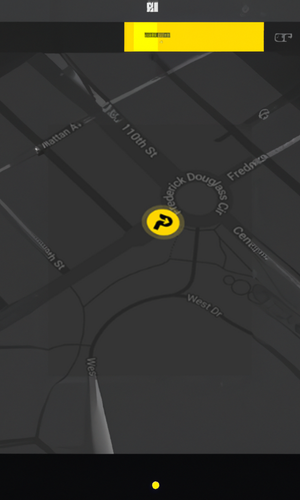
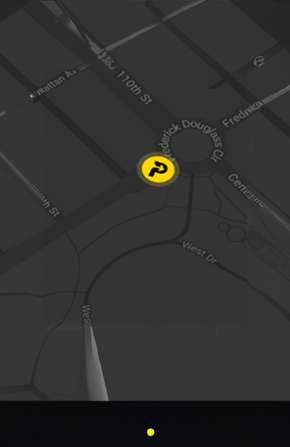
just added stuff to the dummy map

diff --git a/app/screens/map.tsx b/app/screens/map.tsx
@@ -1,0 +1,93 @@
+import CustomButton from '@/components/CustomButton';
+import NavigationArrow from '@/components/NavigationArrow';
+import { icons, images } from '@/constants';
+import React from 'react';
+import { Image, StyleSheet, Text, View } from 'react-native';
+import { SafeAreaView } from 'react-native-safe-area-context';
+import { Path,Svg } from 'react-native-svg';
+
+const Map = () => {
+    const locationDeatils = {
+        name:"NIE-Admin Block",
+        location:"Manandvadi road, NIE",
+        list_details:{
+            distance:2100,spots_left:2,no_of_slots:20
+        }
+    }
+    return (
+        <View className="relative h-full bg-black">
+            <Image className="relative z-0 h-full w-full" source={images.map_parkease} />
+                {/*Top bar - list fo the parking lots */}
+            <View className="absolute w-screen mt-12">
+                <View className="flex items-center mx-4">
+                    <View className="rounded-2xl w-full bg-black flex flex-row justify-between p-4">
+                        <View className="bg-primary-700 rounded-full flex flex-row justify-between">
+                            <View className="h-9 w-9 flex justify-center items-center bg-primary-300 rounded-full">
+                               <Text className="text-xl text-black">6</Text>
+                            </View>
+                            <View className="px-2 flex justify-center">
+                                <Text className="text-base text-white">Free parking lots nearby</Text>
+                            </View>
+                        </View>
+                        <View 
+                        className="flex flex-row justify-around bg-primary-500 px-2 items-center rounded-full"
+                        
+                        >
+                        <Svg width={20} height={20} fill="none" viewBox="0 0 24 24" strokeWidth={1.5} stroke="white">
+                            <Path
+                            strokeLinecap="round"
+                            strokeLinejoin="round"
+                            d="M3.75 12h16.5m-16.5 3.75h16.5M3.75 19.5h16.5M5.625 4.5h12.75a1.875 1.875 0 0 1 0 3.75H5.625a1.875 1.875 0 0 1 0-3.75Z"
+                            />
+                        </Svg>
+                            <Text className="text-base text-white px-2">List</Text>
+                        </View>
+                    </View>
+                </View>
+                {/* search icon */}
+                <View className="flex relative">
+                    <View className="absolute right-5 top-5 z-20 flex gap-4">
+                        <View className="bg-[#bdc2c9] p-3 rounded-full">
+                            <Svg height={24} width={24} fill="none" viewBox="0 0 24 24" strokeWidth={1.5} stroke="black">
+                                <Path
+                                strokeLinecap="round"
+                                strokeLinejoin="round"
+                                d="M21 21l-5.197-5.197m0 0A7.5 7.5 0 1 0 5.196 5.196a7.5 7.5 0 0 0 10.607 10.607Z"
+                                />
+                            </Svg>
+                        </View>
+                        <View className="bg-[#bdc2c9] p-3 rounded-full">
+                            <Svg height={24} width={24} xmlns="http://www.w3.org/2000/svg" fill="none" viewBox="0 0 24 24" strokeWidth={1.5} stroke="black">
+                                <Path strokeLinecap="round" strokeLinejoin="round" d="M10.5 6h9.75M10.5 6a1.5 1.5 0 1 1-3 0m3 0a1.5 1.5 0 1 0-3 0M3.75 6H7.5m3 12h9.75m-9.75 0a1.5 1.5 0 0 1-3 0m3 0a1.5 1.5 0 0 0-3 0m-3.75 0H7.5m9-6h3.75m-3.75 0a1.5 1.5 0 0 1-3 0m3 0a1.5 1.5 0 0 0-3 0m-9.75 0h9.75" />
+                            </Svg>
+                        </View>
+                    </View>
+                </View>
+            </View>
+            <View className="absolute bottom-0 w-screen">
+                <View className="bg-primary-300 rounded-t-2xl">
+                    <Text className="">
+                        {locationDeatils.name}
+                    </Text>
+                    <Text>
+                        {locationDeatils.location}
+                    </Text>
+                    <View>
+                        {/* {locationDeatils.list_details.map((x)=>{
+
+                        })} */}
+                    </View>
+                    <View className="mx-5 mb-8">
+                        <CustomButton 
+                        bgVariant="dark"
+                        title="Navigate"
+                        IconLeft={() => <NavigationArrow/>}
+                        />
+                    </View>
+                </View>
+            </View>
+        </View>
+    );
+}
+
+export default Map;

diff --git a/constants/index.tsx b/constants/index.tsx
@@ -23,6 +23,8 @@ import selectedMarker from "@/assets/icons/selected-marker.png";
 import star from "@/assets/icons/star.png";
 import target from "@/assets/icons/target.png";
 import to from "@/assets/icons/to.png";
+import navigation_arrow from "@/assets/icons/navigation_arrow.png"
+
 import check from "@/assets/images/check.png";
 import getStarted from "@/assets/images/get-started.png";
 import message from "@/assets/images/message.png";
@@ -35,7 +37,7 @@ import parkingP from "@/assets/images/parkingP.png";
 import parking_layout from "@/assets/images/parking-layout.png";
 import parking_layout1 from "@/assets/images/parking-layout.jpg";
 import parkingkaP from "@/assets/images/parking-p.png";
-import map_parkease from "@/assets/images/map-parkease"
+import map_parkease from "@/assets/images/map-parkease.png"
 
 export const images = {
   onboarding1,
@@ -50,7 +52,7 @@ export const images = {
   parking_layout,
   parking_layout1,
   parkingkaP,
-  map_parkease
+  map_parkease,
 };
 
 export const icons = {
@@ -69,6 +71,7 @@ export const icons = {
   lock,
   map,
   marker,
+  navigation_arrow,
   out,
   person,
   pin,

diff --git a/components/CustomButton.tsx b/components/CustomButton.tsx
@@ -19,6 +19,9 @@ const getBgVariantStyle = (variant: ButtonProps["bgVariant"]) => {
     case "main":
       return "bg-[#ffd602]";
       break;
+    case "dark":
+      return "bg-[#000]";
+      break;
     default:
       return "bg-[#0286ff]";
   }
@@ -66,7 +69,7 @@ const CustomButton = ({
       {...props}
     >
       {IconLeft && <IconLeft />}
-      <Text className={`text-[16px] font-JakartaBold ${getTextVariantStyle(textVariant)}`}>
+      <Text className={`text-[16px] px-1 font-JakartaBold ${getTextVariantStyle(textVariant)}`}>
         {title}
       </Text>
       {IconRight && <IconRight />}

diff --git a/components/NavigationArrow.tsx b/components/NavigationArrow.tsx
@@ -1,0 +1,11 @@
+import Svg, { G, Path } from 'react-native-svg';
+
+const NavigationArrow = () => (
+  <Svg width={20} height={20} viewBox="0 0 512 512" >
+    <G transform="rotate(270, 256, 256) scale(0.2)"  fill="white" stroke="white">
+    <Path d="M1815 2048 c-203 -94 -692 -318 -1085 -499 -522 -240 -717 -334 -724 -349 -20 -44 -1 -49 509 -135 267 -45 487 -84 489 -86 2 -2 29 -211 60 -464 39 -318 61 -464 70 -474 9 -8 24 -11 38 -8 19 5 47 55 149 264 70 142 308 624 530 1071 425 856 419 844 358 849 -13 1 -187 -73 -394 -169z"/>
+    </G>
+  </Svg>
+);
+
+export default NavigationArrow;

diff --git a/app/index.tsx b/app/index.tsx
@@ -34,7 +34,7 @@ export default function Index() {
     >
       
       <Link href={'./(home)'}>Get Started > </Link>
-      <Link href={'./screens'}>yabs > </Link>
+      <Link href={'./screens/map'}>yabs > </Link>
     </View>
   );
 }

diff --git a/tailwind.config.js b/tailwind.config.js
@@ -20,7 +20,7 @@ module.exports = {
           400: "#b59801",
           500: "#57595d",
           600: "#070707",
-          700: "#475A99",
+          700: "#313131",
           800: "#364573",
           900: "#242B4D",
         },

diff --git a/constants/dummy_data.js b/constants/dummy_data.js
@@ -1,0 +1,7 @@
+export const locationDeatils = {
+    name:"NIE-Admin Block",
+    location:"Manandvadi road, NIE",
+    distance:2100,
+    spots_left:2,
+    no_of_slots:10
+}
